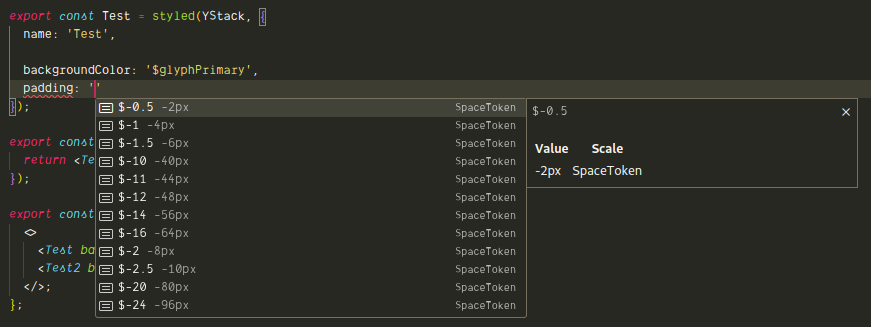
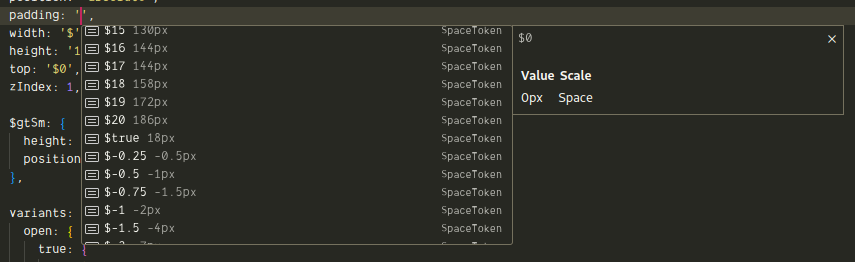
docs: update readme

Changed region(s): [[0.0, 0.0, 1.0, 0.9771], [0.9731, 0.1221, 1.0, 0.1527]]

diff --git a/README.md b/README.md
@@ -10,11 +10,21 @@ Typescript Language Server Plugin for [Tamagui](https://tamagui.dev).
 
 - Automatically reloads when your config is updated by the Tamagui compiler
 
+- Smart sorting of autocomplete suggestions:
+
+  - Tokens with numbers get sorted in numeric order
+
+  - Negative space tokens get sorted after postive ones
+
+  - Theme tokens always come before any Color tokens
+
+  - Unprefixed tokens sort before scale-specific tokens (`$scale.token`)
+
 ### Screenshots
 
 ![Theme Token Screenshot](./docs/screenshot_autocomplete_theme.png)
 
-![Color Token Screenshot](./docs/screenshot_autocomplete_color.png)
+![Translucent Color Screenshot](./docs/screenshot_autocomplete_translucent.png)
 
 ![Space Token Screenshot](./docs/screenshot_autocomplete_space.png)
 
